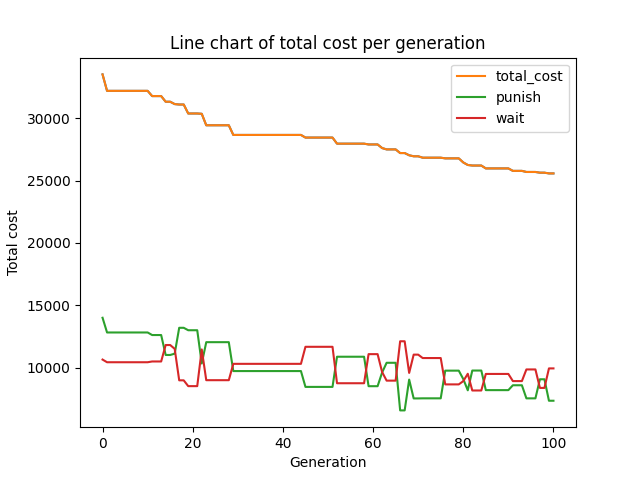
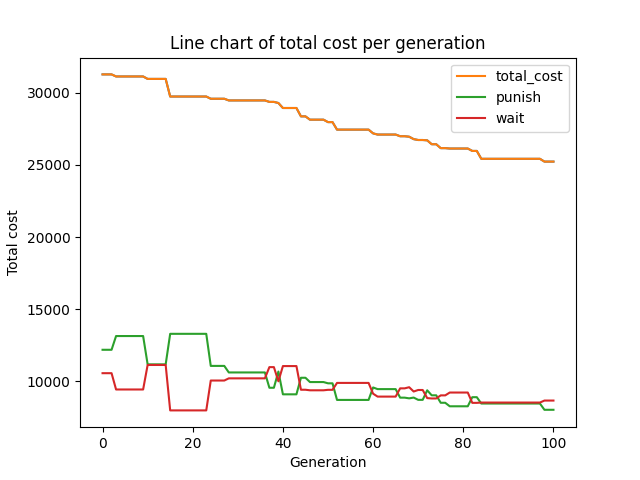
CIM

diff --git a/GA_VRPTW.py b/GA_VRPTW.py
@@ -1,4 +1,5 @@
 import csv
+from itertools import zip_longest
 import math
 import multiprocessing
 import os
@@ -214,7 +215,7 @@ def heuristic_crossover(parentA, parentB):
                 p2genes = [gene for gene in parentB if gene not in child]
                 child[:positions[0]] = p2genes[:positions[0]]
                 child[positions[1]:] = p2genes[positions[0]:]
-                child = heuristic_scramble_mutation(child)
+                child = mutate(child)
                 cost = solution_cost(split_route(child))
                 child.append(cost['total_cost'])
                 childs.append(child)
@@ -229,7 +230,7 @@ def heuristic_crossover(parentA, parentB):
                 p2genesA = [gene for gene in parentB if gene not in child] 
                 child[:positionA1] = p2genesA[:positionA1]
                 child[positionA2 + 1:] = p2genesA[positionA1:]
-                child = heuristic_scramble_mutation(child)
+                child = mutate(child)
                 cost = solution_cost(split_route(child))
                 child.append(cost['total_cost'])
                 childs.append(child)
@@ -245,7 +246,7 @@ def heuristic_crossover(parentA, parentB):
                 p2genes = [gene for gene in parentA if gene not in child]
                 child[:positions[0]] = p2genes[:positions[0]]
                 child[positions[1]:] = p2genes[positions[0]:]
-                child = heuristic_scramble_mutation(child)
+                child = mutate(child)
                 cost = solution_cost(split_route(child))
                 child.append(cost['total_cost'])
                 childs.append(child)
@@ -260,7 +261,7 @@ def heuristic_crossover(parentA, parentB):
                 p2genesB = [gene for gene in parentA if gene not in child]
                 child[:positionB1] = p2genesB[:positionB1]
                 child[positionB2 + 1:] = p2genesB[positionB1:]
-                child = heuristic_scramble_mutation(child)
+                child = mutate(child)
                 cost = solution_cost(split_route(child))
                 child.append(cost['total_cost'])
                 childs.append(child)
@@ -271,8 +272,10 @@ def heuristic_crossover(parentA, parentB):
 # Mutate a solution by swapping two customers
 def mutate(solution):
     if random.random() < mutation_rate:
-        idx1, idx2 = random.sample(range(len(solution)), 2)
-        solution[idx1], solution[idx2] = solution[idx2], solution[idx1]
+        position = random.randint(0,len(solution))
+        # solution = [elem for pair in zip_longest(solution[:position], solution[position:]) for elem in pair if elem is not None]
+        solution[:position] =  solution[:position][::-1]
+        solution[position:] =  solution[position:][::-1]
     return solution
 
 def heuristic_scramble_mutation(solution):
@@ -322,14 +325,18 @@ def genetic_algorithm():
     total_value = solution_cost(split_route(bestP[:-1]))
     chart_punish.append(total_value['punish'])
     chart_wait.append(total_value['wait'])
+    i = 1
     for _ in range(generations):
-        new_gen = generate_newgeneration(population,0.2)
+        if i % 10 == 0:
+            print(f"{i}%")
+        new_gen = generate_newgeneration(population,0.1)
         bestG = min(new_gen, key= lambda x:x[-1])
         fitness_list.append(bestG[-1])
         total_value = solution_cost(split_route(bestG[:-1]))
         chart_punish.append(total_value['punish'])
         chart_wait.append(total_value['wait'])
         population = new_gen
+        i += 1
     best_solution = min(population, key= lambda x:x[-1])
     return best_solution
 

diff --git a/test.py b/test.py
@@ -1,6 +1,8 @@
 # import numpy as np
 # from sklearn.cluster import KMeans
 # import matplotlib.pyplot as plt
+import random
+from itertools import zip_longest
 
 # # Tạo dữ liệu mẫu
 # with open('data.txt', 'r') as file:
@@ -57,10 +59,3 @@
 # plt.title('Biểu đồ dữ liệu của các cụm')
 # plt.legend()
 # plt.show()
-
-[9, 4, 6, 2, 1, 5, 3, 7, 8, 10, 211.15436332297512]
-A = [22, 43, 62, 25, 131, 103, 140, 176, 9, 104, 12, 95, 71, 127, 157, 119, 39, 196, 31, 129, 175, 45, 137, 10, 112, 150, 116, 105, 152, 76, 38, 134, 1, 100, 4, 17, 46, 41, 115, 179, 168, 183, 73, 85, 68, 91, 126, 156, 172, 122, 164, 197, 88, 191, 21, 193, 139, 169, 52, 194, 162, 34, 53, 170, 48, 147, 120, 163, 144, 130, 161, 23, 200, 121, 187, 198, 138, 186, 64, 195, 14, 149, 51, 94, 30, 29, 49, 185, 189, 66, 72, 47, 111, 69, 106, 74, 109, 75, 6, 19, 89, 178, 78, 108, 80, 101, 180, 154, 96, 148, 123, 26, 151, 50, 15, 27, 36, 98, 28, 173, 158, 114, 58, 166, 153, 145, 60, 59, 61, 97, 188, 81, 110, 192, 84, 93, 56, 146, 99, 32, 125, 63, 102, 155, 83, 184, 124, 136, 107, 190, 181, 141, 42, 86, 132, 24, 35, 5, 128, 77, 159, 182, 67, 165, 3, 70, 11, 143, 133, 44, 18, 55, 199, 57, 117, 118, 174, 167, 54, 40, 160, 33, 65, 87, 92, 79, 177, 2, 142, 7, 135, 37, 8, 13, 90, 82, 171, 16, 113, 20]
-A.sort()
-B = [i for i in range(1, 201)]
-if A==B:
-    print('ok')
